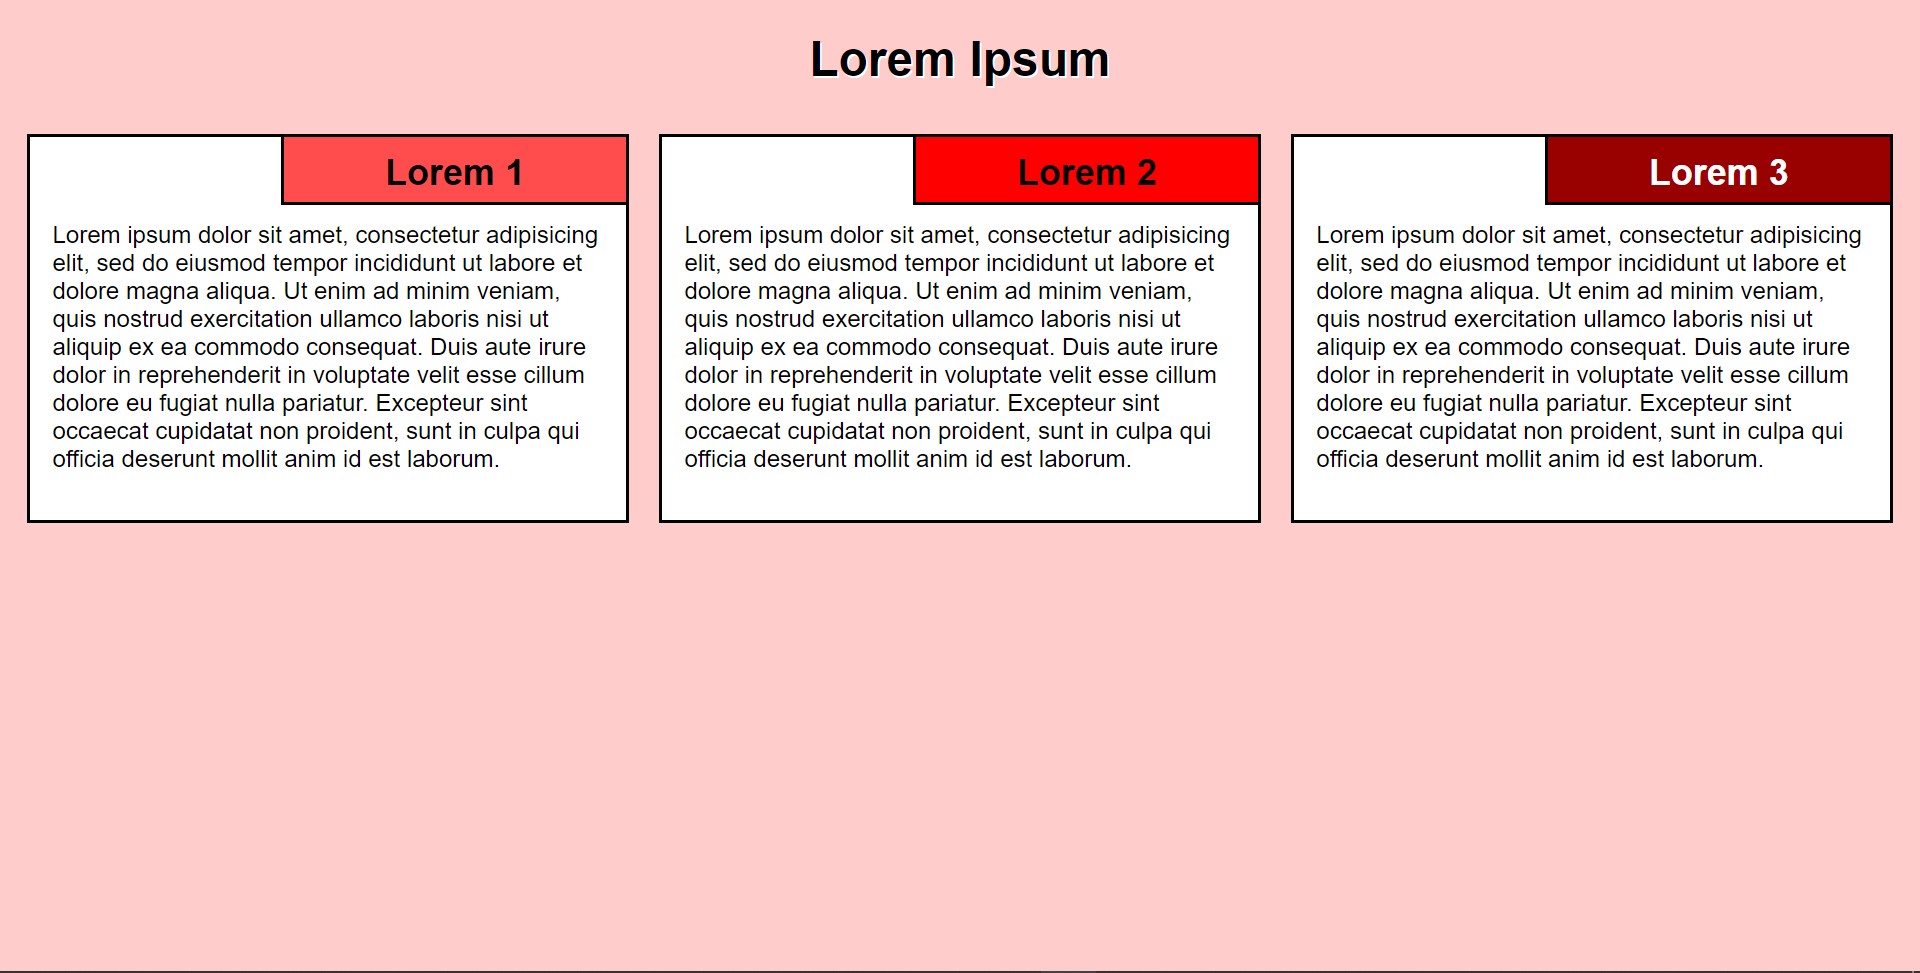
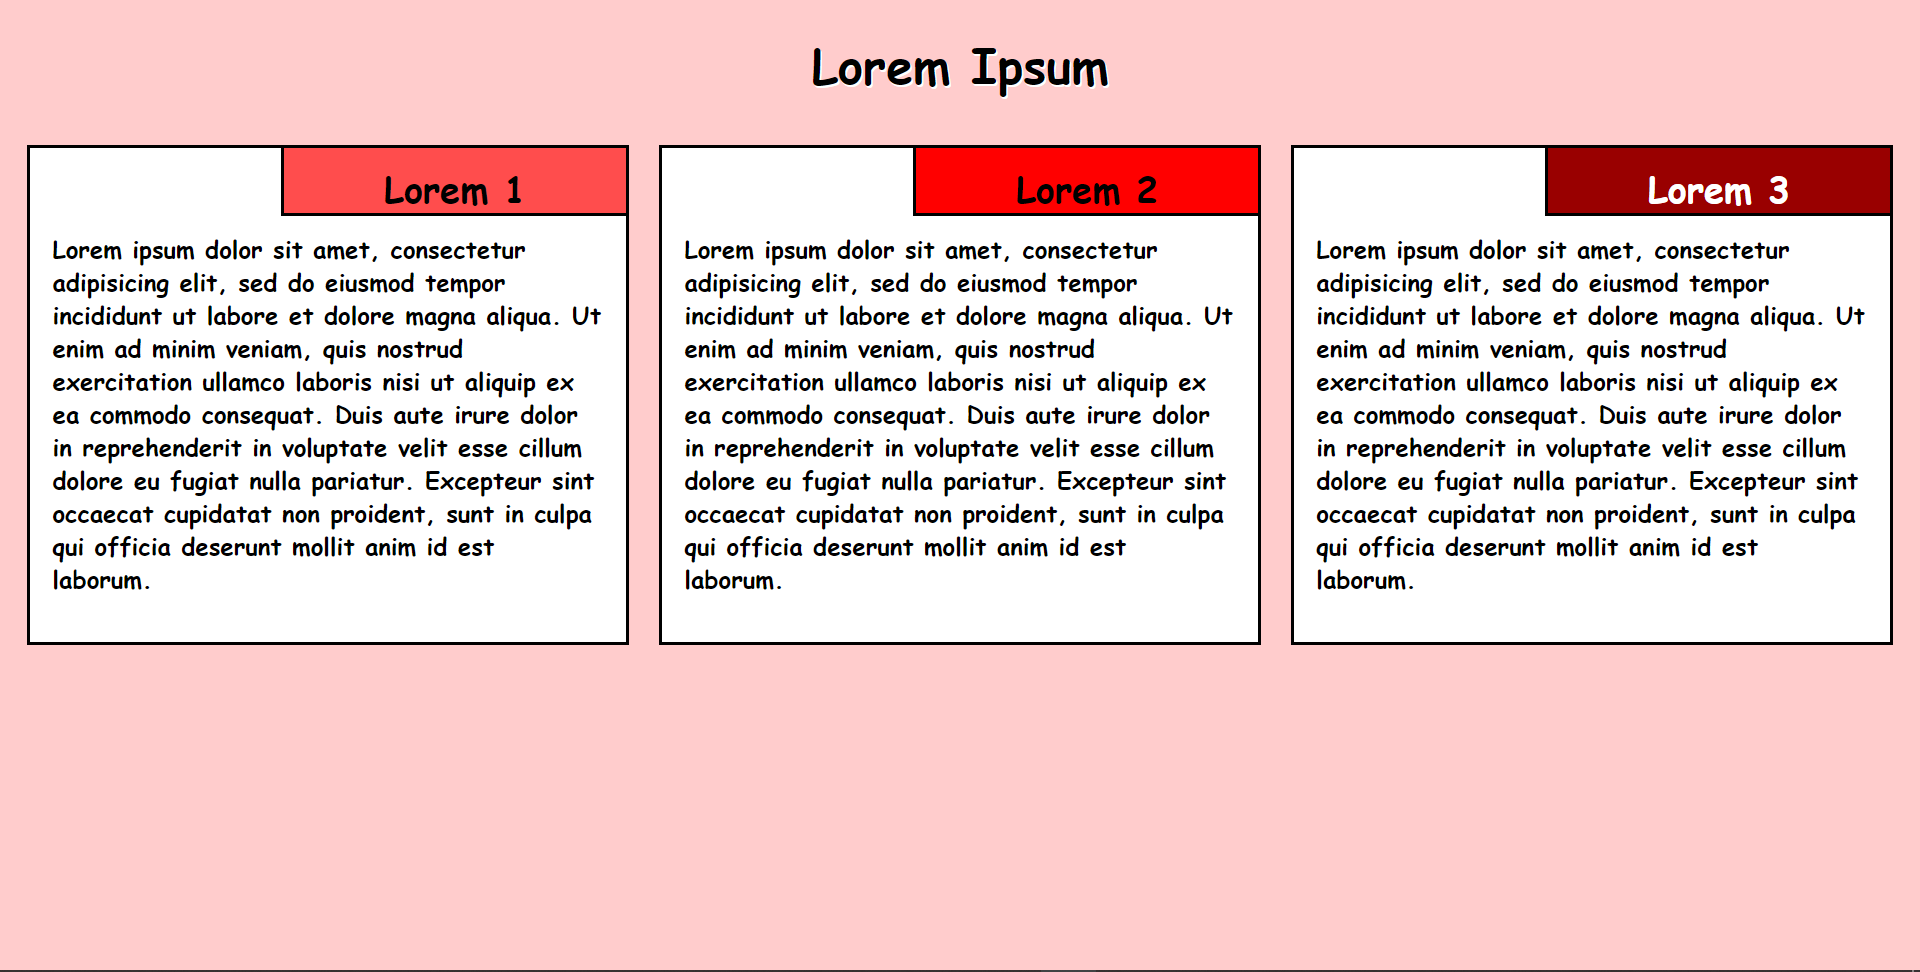
modification

Changed region(s): [[0.0, 0.1235, 1.0, 0.679], [0.4062, 0.0309, 0.5938, 0.0926]]

diff --git a/module2-solution/css/styles.css b/module2-solution/css/styles.css
@@ -1,6 +1,6 @@
 * {
 	box-sizing: border-box;
-	font-family: Helvetica;
+	font-family: Comic Sans MS;
 }
 
 body {
@@ -18,6 +18,7 @@ section {
 	border: 2px solid black;
 	color: black;
 	margin: 10px;
+	font-weight: bold;
 
 }
 
